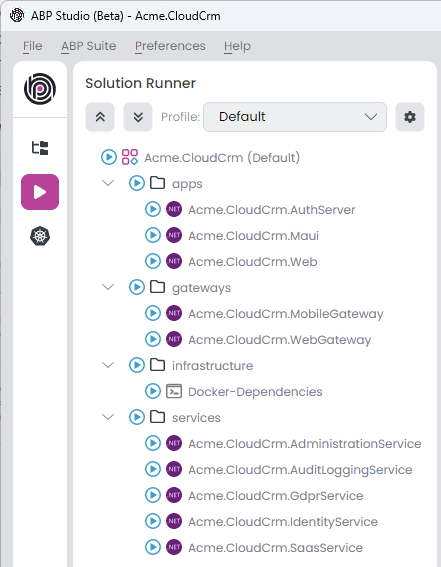
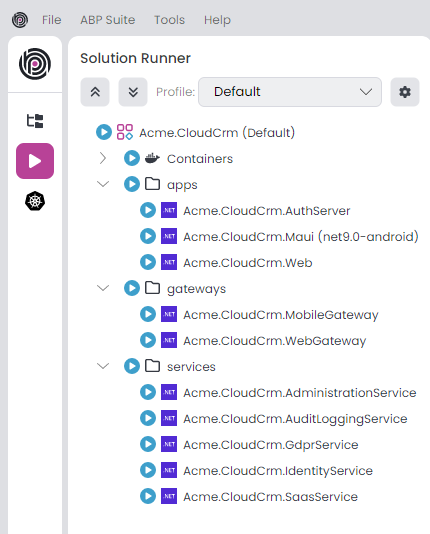
updated get-started microservice document

Changed region(s): [[0.0, 0.0, 1.0, 1.0]]

diff --git a/docs/en/get-started/microservice.md b/docs/en/get-started/microservice.md
@@ -154,7 +154,7 @@ In the *Solution Runner* section (on the left side) you can see all the runnable
 
 > A leaf item in the *Solution Runner* is called as an *Application* as it is an executable application.
 
-As shown in the figure above, the executable applications are grouped into folders like `apps`, `gateways`, `infrastructure`, and `services`. You can start/stop them all, a group (folder) of them, or one by one.
+As shown in the figure above, the executable applications are grouped into folders like `apps`, `gateways`, and `services`. You can start/stop them all, a group (folder) of them, or one by one. The `Containers` branch contains the needed docker containers for the applications. 
 
 Before running the applications, you can run the all application by right-clicking the root item in the *Solution Runner* and select *Build* -> *Build All* action. However, you don't need to do that, because ABP Studio builds the applications before running them by default.
 
